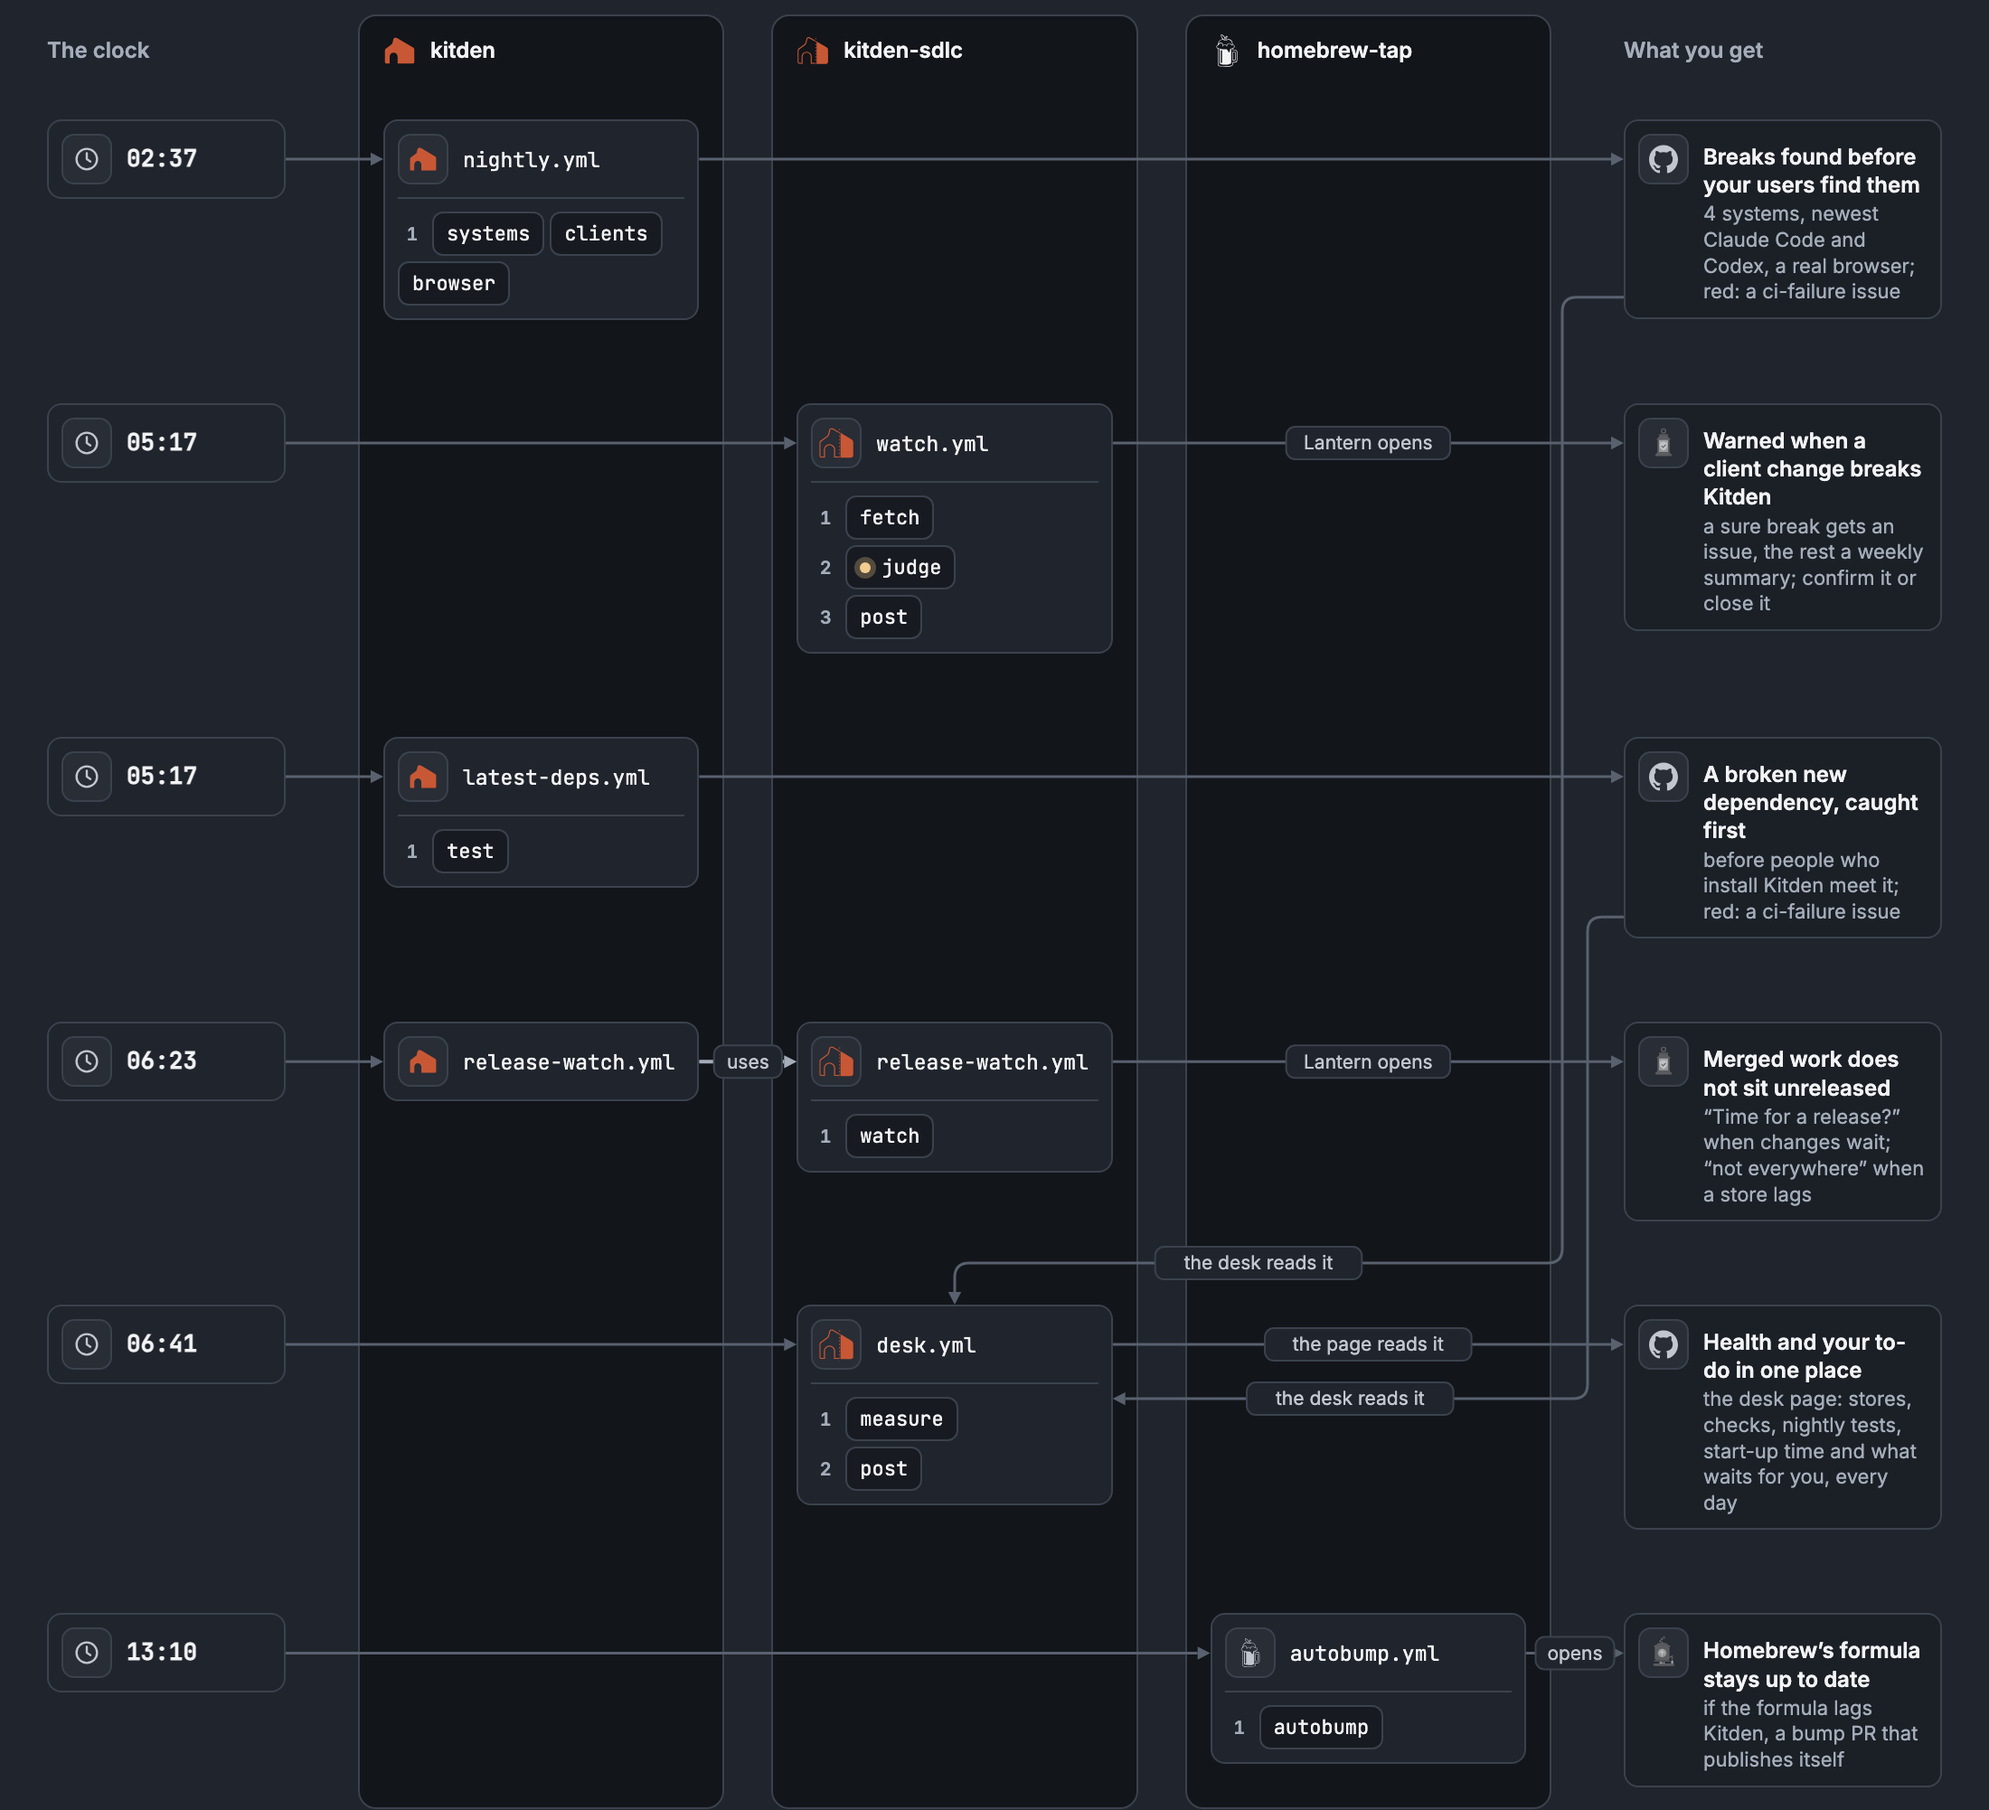
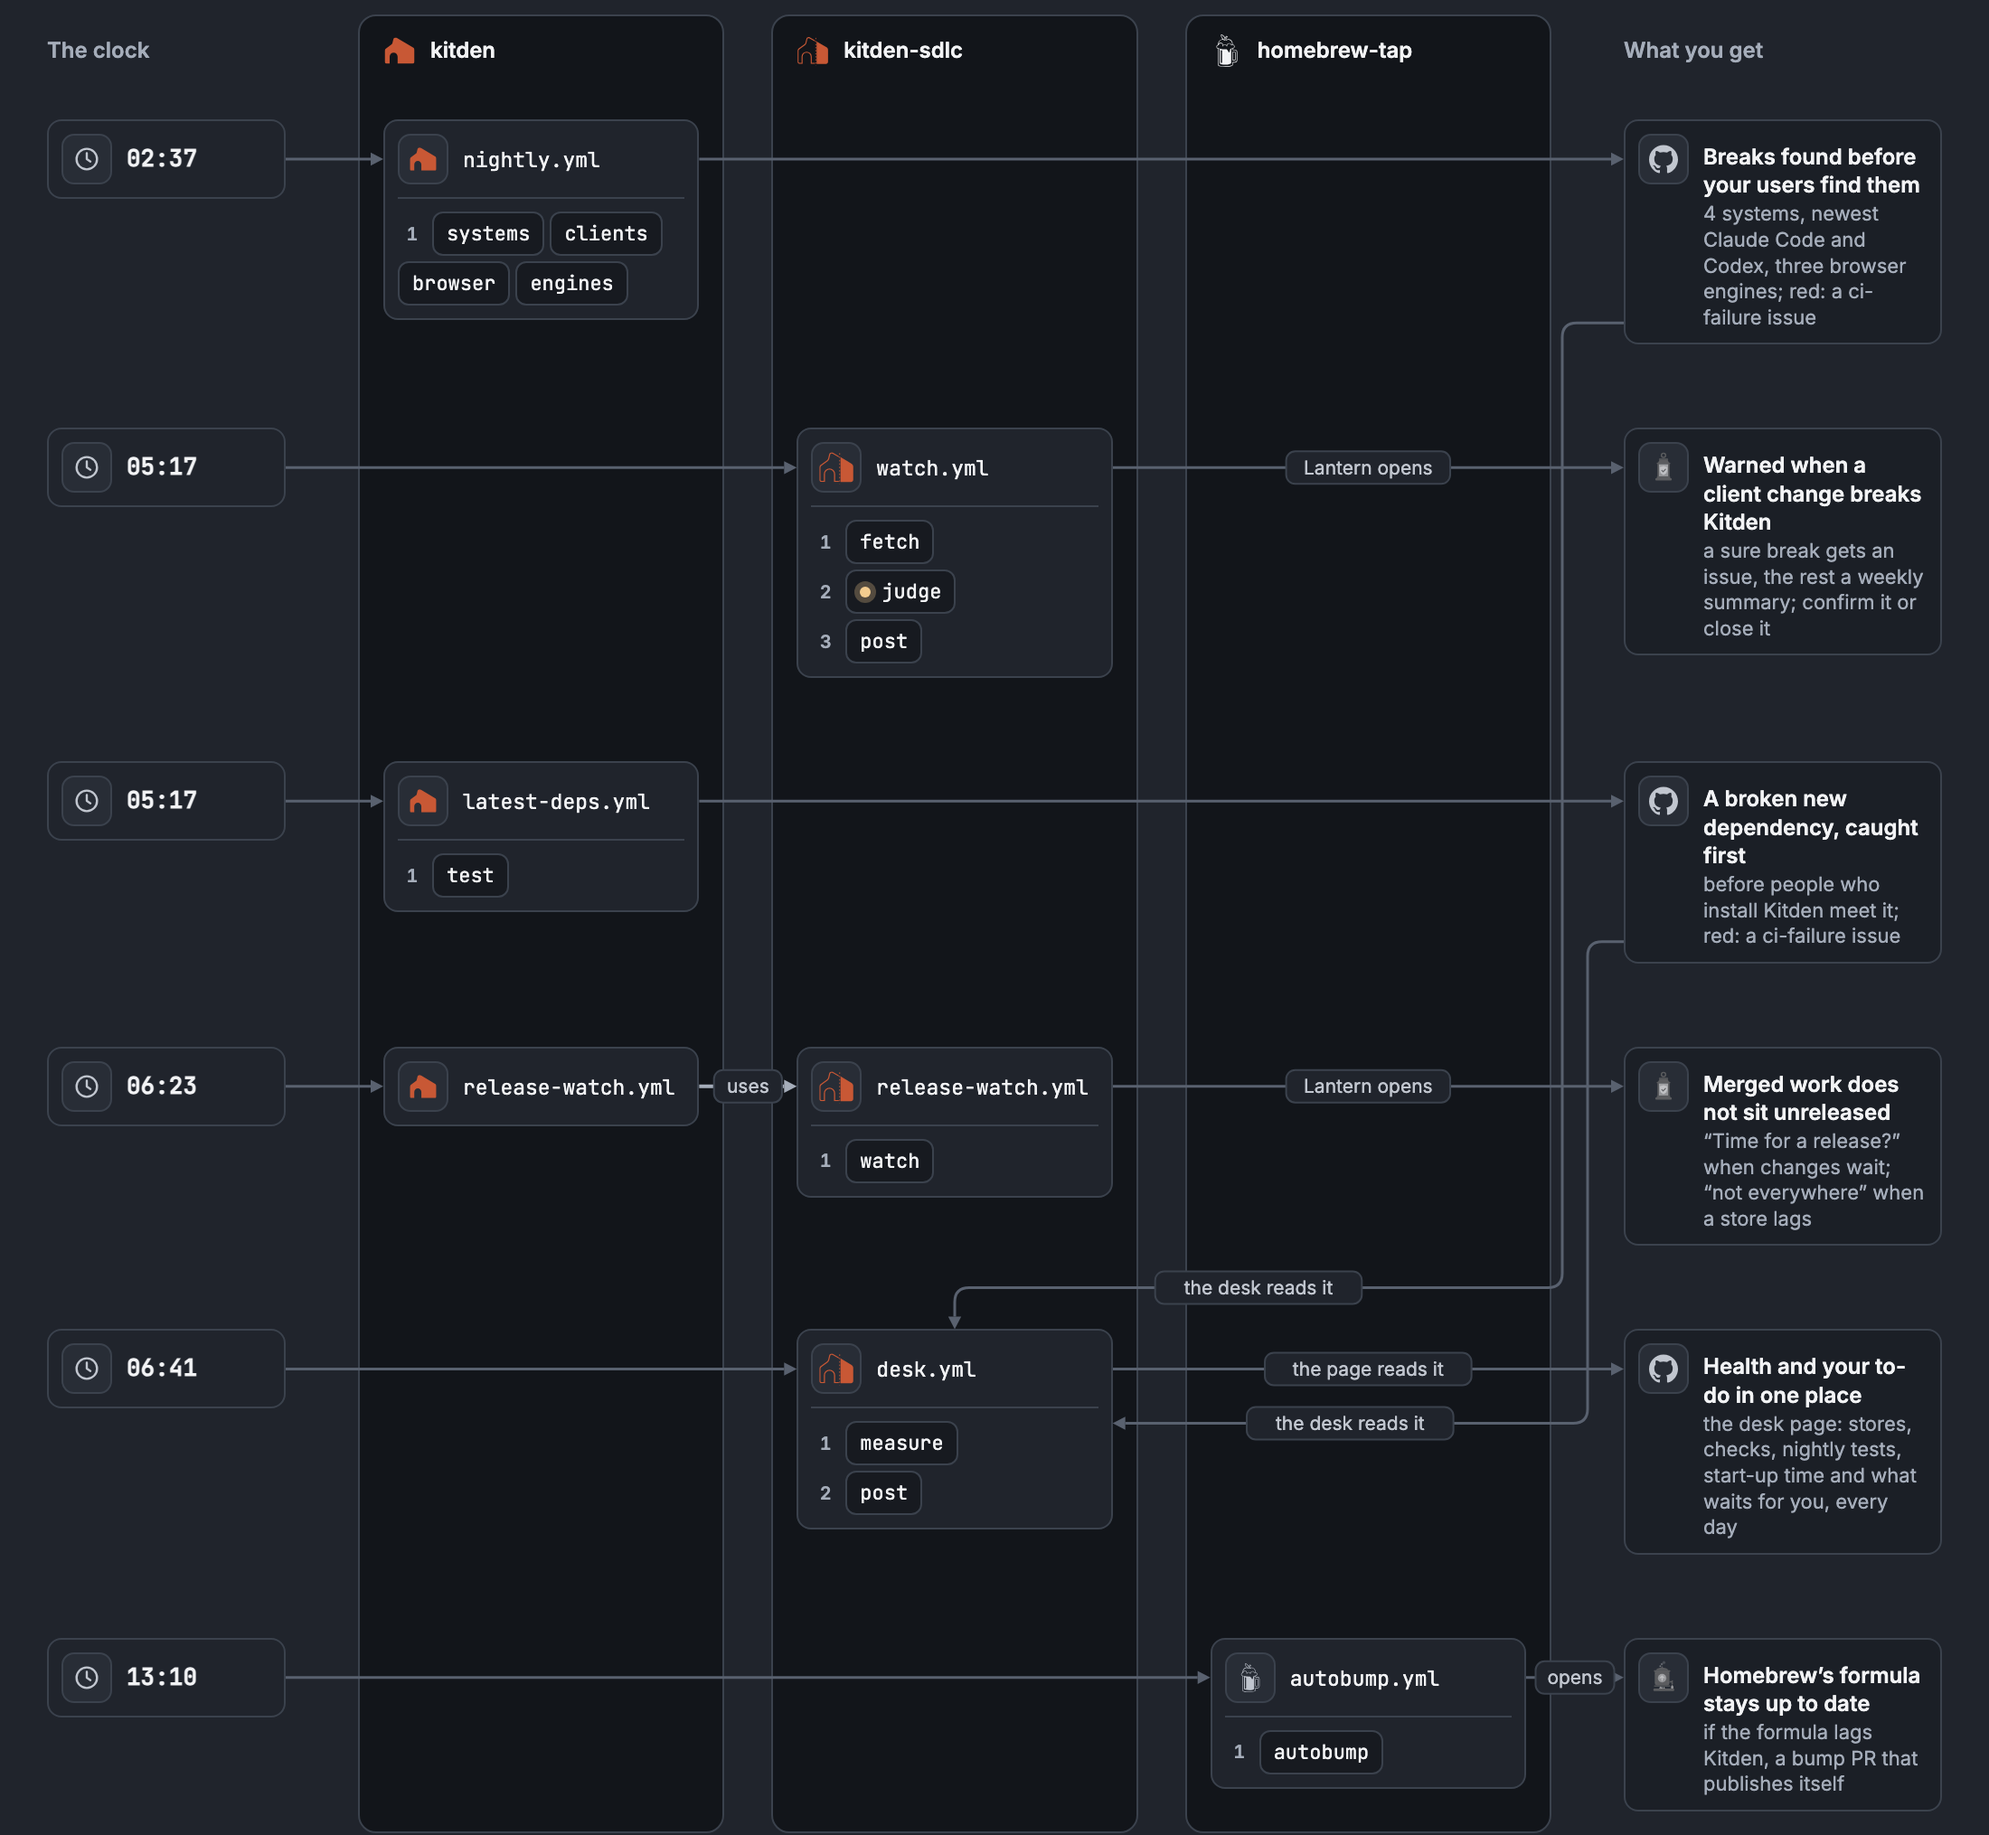
Show the engines job in the README map and the docs
Re-make the Every day pictures; the nightly card is one row taller now.
Name the three browsers in Supported platforms, and test that a missing leg is grey.

diff --git a/tests/test_desk_bench.py b/tests/test_desk_bench.py
@@ -163,6 +163,15 @@ def test_a_newest_night_without_the_rows_job_is_grey_not_green():
     assert e2e["state"] == "grey"
 
 
+def test_a_newest_night_without_one_engines_leg_is_grey_not_green():
+    line = night_line(1, "2026-11-16")
+    line["jobs"] = [j for j in line["jobs"] if j["name"] != "engines (firefox)"]
+    row = next(r for r in rows([line], NOW) if r["name"] == "End-to-end in three browsers")
+    assert row["state"] == "grey"
+    assert [(c["label"], c["state"]) for c in row["cells"]] == [
+        ("Chrome", "green"), ("Firefox", "grey"), ("WebKit", "green")]
+
+
 def test_the_engines_row_shows_each_browser_and_names_the_red_one():
     red = "engines (webkit)"
     history = [night_line(1, "2026-11-15"), night_line(2, "2026-11-16", {red: "failure"})]

diff --git a/docs/agents.md b/docs/agents.md
@@ -69,8 +69,9 @@ page. Besides the lights and what waits, `desk.json` has a `bench`
   audits, the release check, the package), each green, red or grey over both systems.
 - **Nightly**, in two groups, each row with the last 14 nights: **Supported platforms** block a
   release (each system by OS and architecture with Python 3.13 and 3.14, the end-to-end tests in
-  Chromium, the start-up budget); **Compatibility** only informs (the newest Claude Code and
-  Codex, the newest dependencies), because a red there is often the other side's change.
+  Chromium and in three browsers (Chrome, Firefox, WebKit), the start-up budget); **Compatibility**
+  only informs (the newest Claude Code and Codex, the newest dependencies), because a red there is
+  often the other side's change.
 - **Start-up time by release:** what `measure-start.py` printed, per system: a release's point
   is its build on its tag (macOS arm64 and Linux x86_64; since 0.10.2 also the Intel Mac and
   Linux on ARM, release.yml's `startup` job), Kitden's one-off run of 19 Nov 2026 that measured
